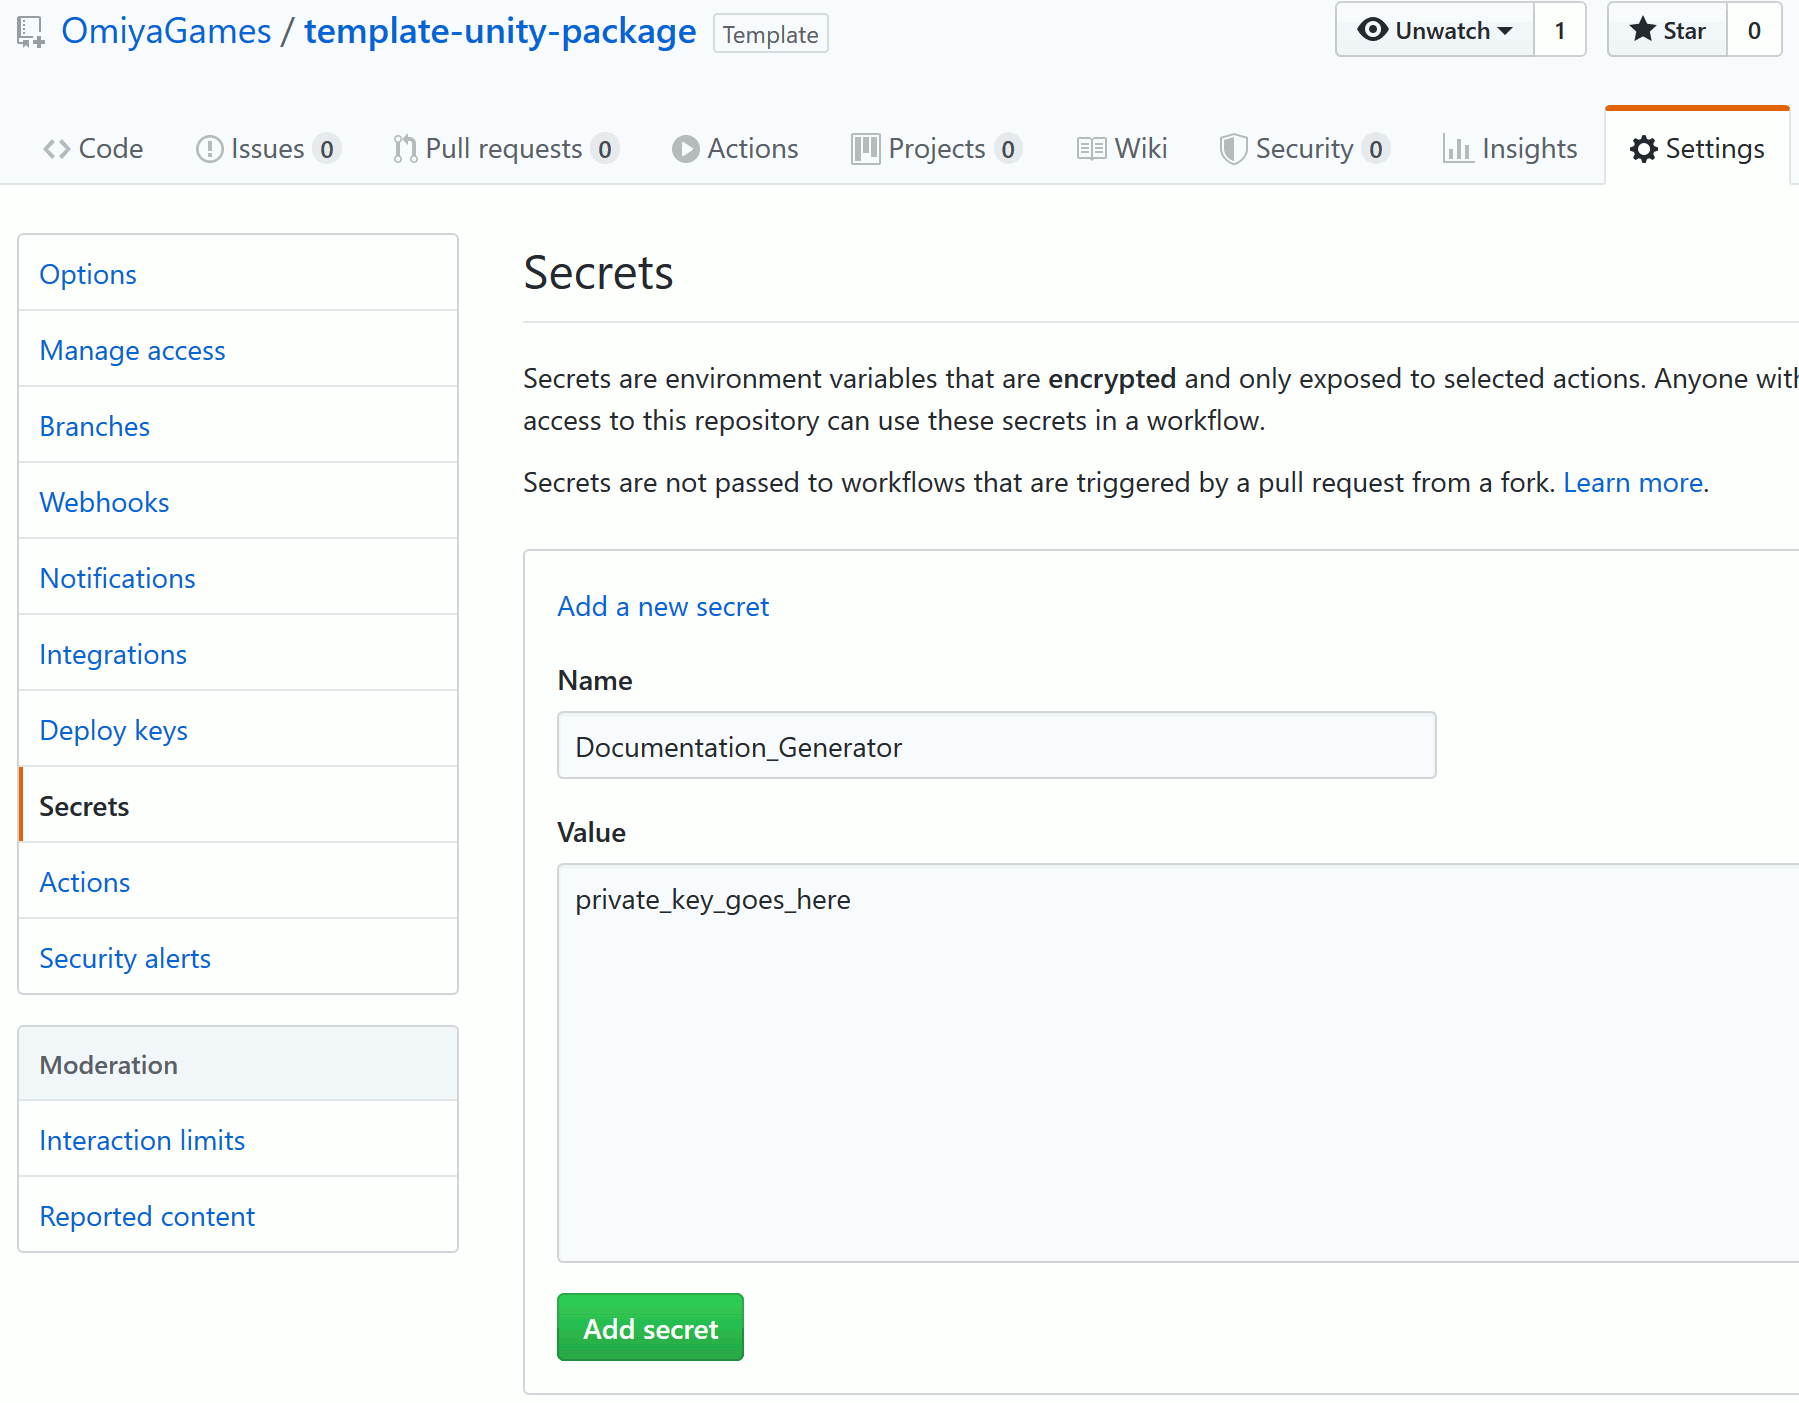
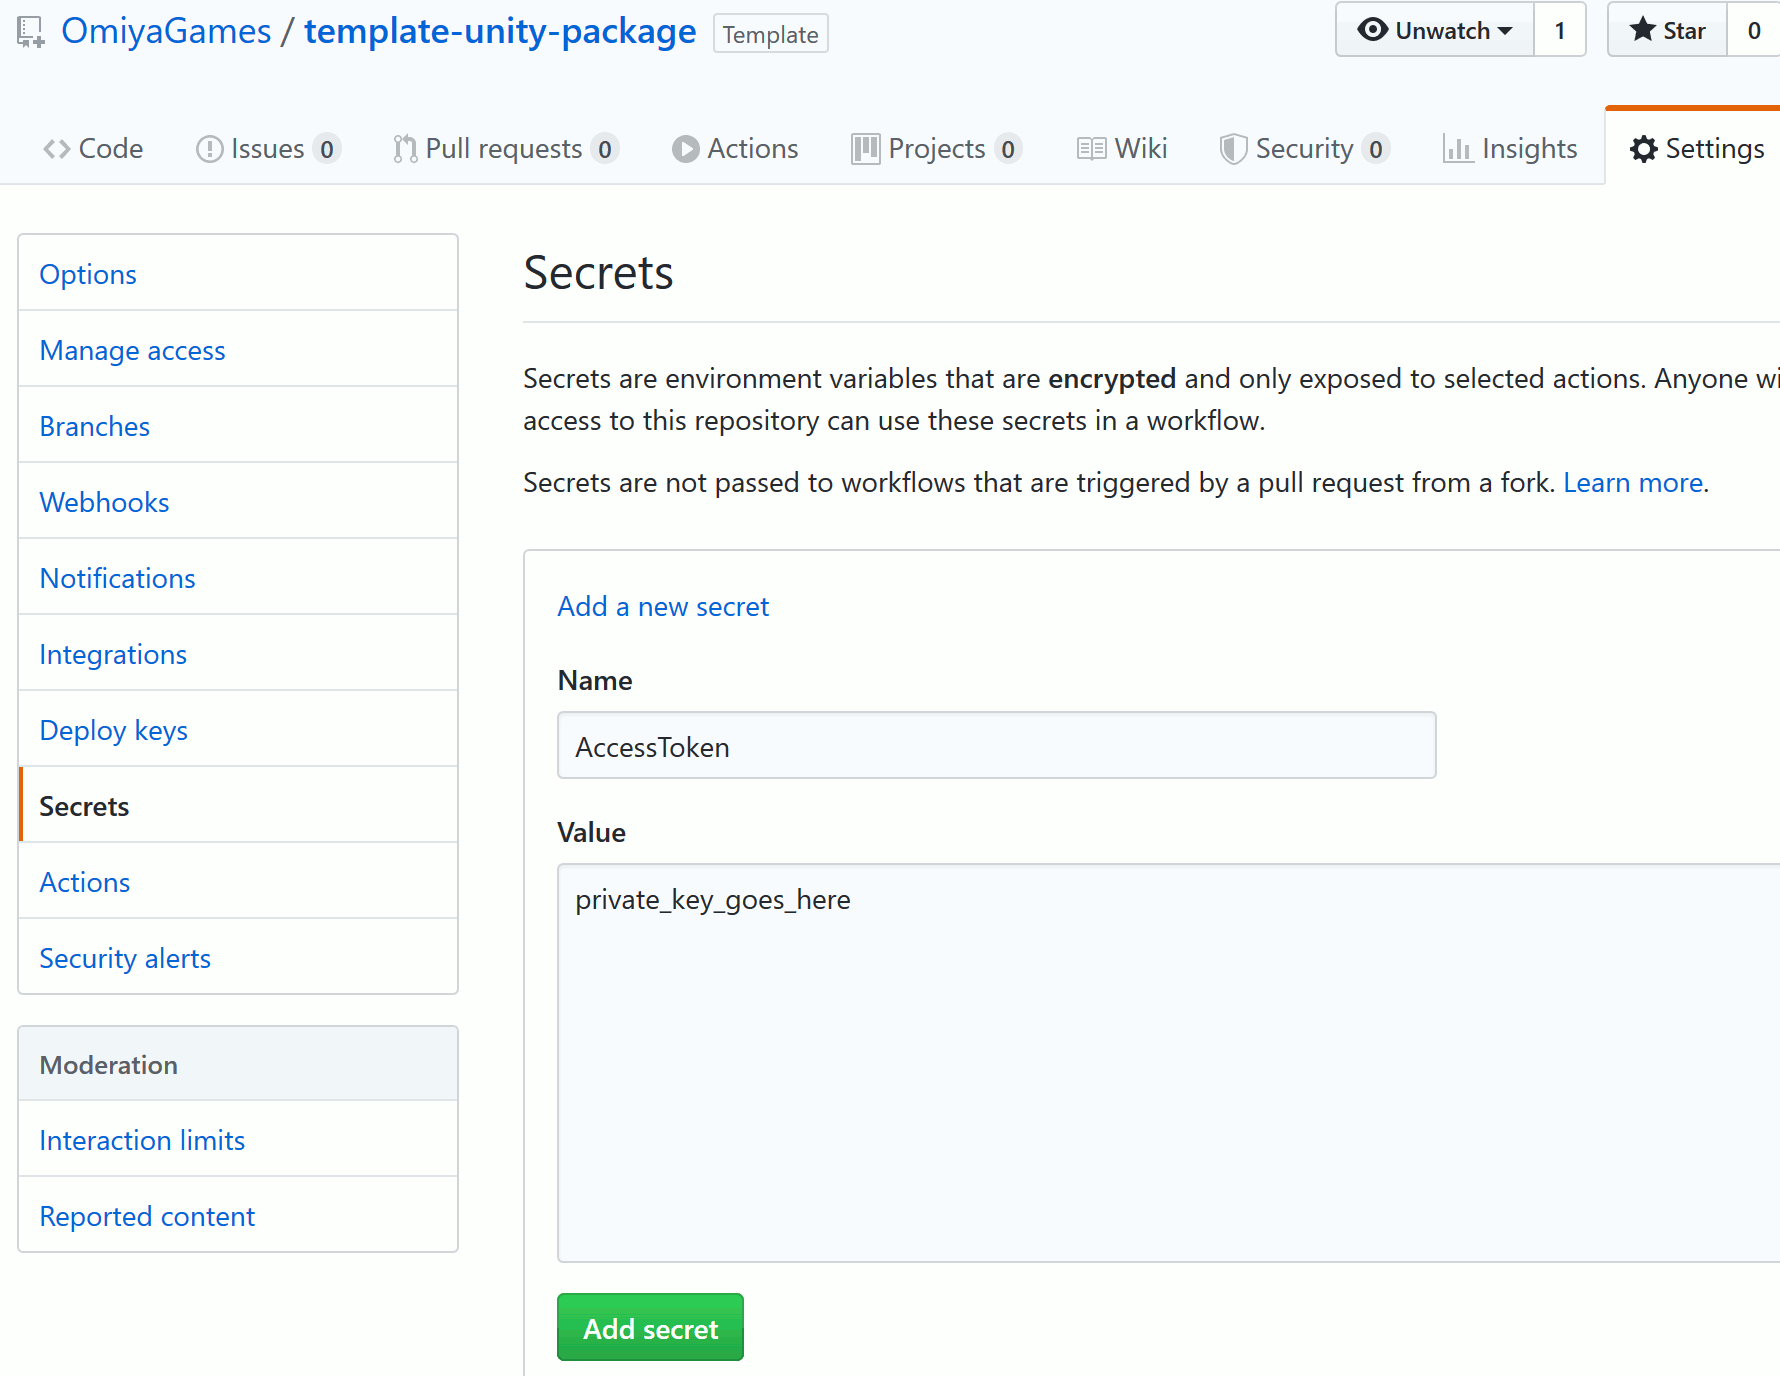
Completely misunderstood instructions about one part in setting up Github Access Keys; fixing.

diff --git a/Documentation~/manual/customizeDocumentation.md b/Documentation~/manual/customizeDocumentation.md
@@ -68,7 +68,7 @@ To give Github Actions access to the package's repository, a private key must be
 
 1. If the developer hasn't done this step already, go to ["Settings -> Developer Settings -> Personal access token,"](https://github.com/settings/tokens) and generate a new token with full access to `repo`.  Don't forget to copy the secret key printed on the new entry in a safe location.
    - ![Personal Access Token](https://omiyagames.github.io/template-unity-package/resources/personalAccessToken.png)
-2. Return to the Github repository, then go to "Settings -> Secrets," and add the generated key into the list.
+2. Return to the Github repository, then go to "Settings -> Secrets," and add the generated key into the list.  Remember to name this key as, `AccessToken`.
    - ![Add Secret](https://omiyagames.github.io/template-unity-package/resources/addingSecrets.png)
 3. Finally, push the repository to the master branch to deploy the automated commands!  A new breanch, `gh-pages`, and website, `https://<username>.github.io/<repo-name>/` will be created as part of this process.
 
